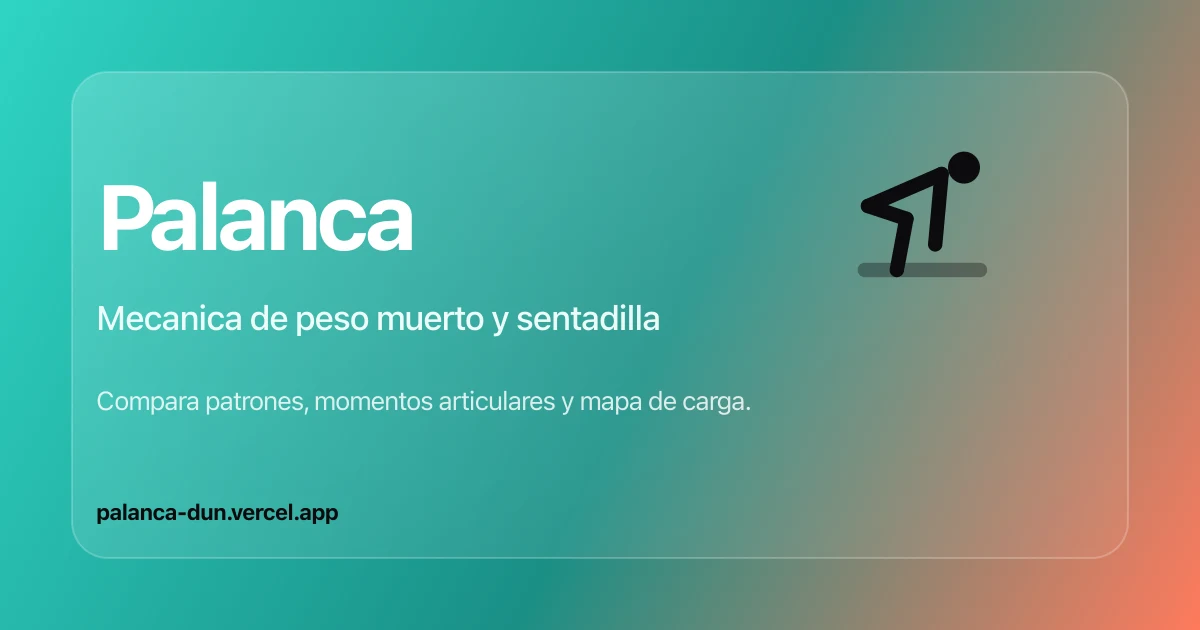
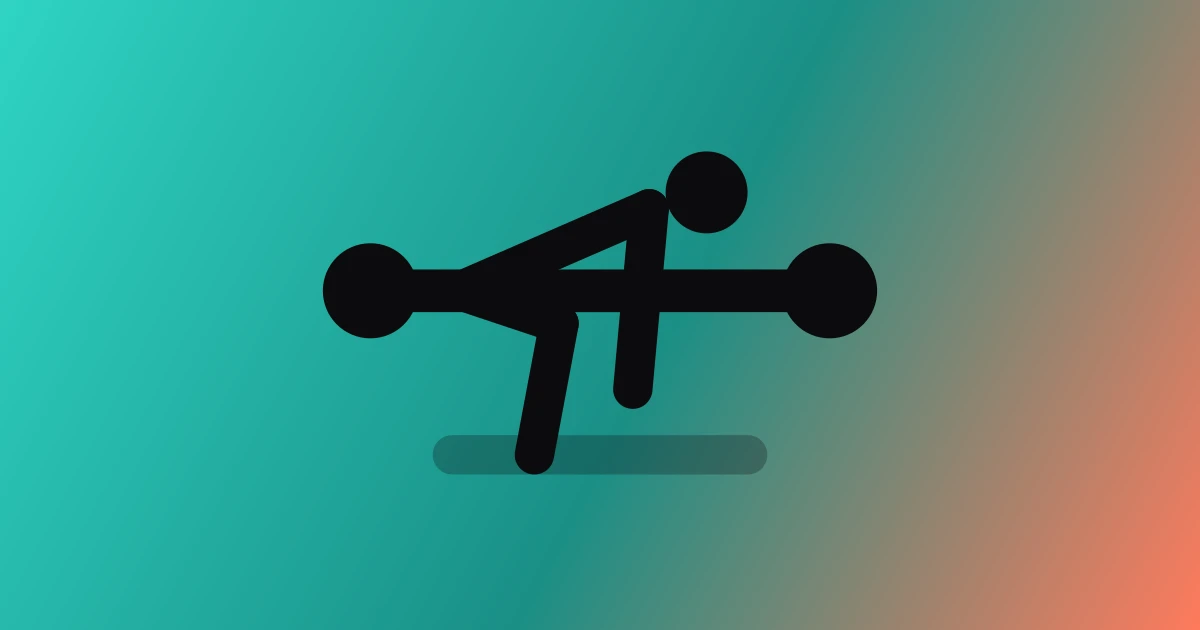
fix: og image solo stickman con barra de gym
Reemplaza el card con texto por el simbolo del simulador: figura y barra centrados sobre el gradiente de marca.

diff --git a/index.html b/index.html
@@ -28,7 +28,7 @@
     <meta property="og:image:secure_url" content="https://palanca-dun.vercel.app/og.webp" />
     <meta property="og:image:width" content="1200" />
     <meta property="og:image:height" content="630" />
-    <meta property="og:image:alt" content="Palanca — simulador de mecánica de peso muerto y sentadilla" />
+    <meta property="og:image:alt" content="Stick figure levantando una barra en Palanca" />
     <meta property="og:locale" content="es_AR" />
     <meta name="twitter:card" content="summary_large_image" />
     <meta name="twitter:title" content="Palanca · Mecánica de peso muerto y sentadilla" />
@@ -37,7 +37,7 @@
       content="Simulador interactivo de peso muerto y sentadilla: compará patrones de coordinación, momentos articulares y mapa de carga."
     />
     <meta name="twitter:image" content="https://palanca-dun.vercel.app/og.webp" />
-    <meta name="twitter:image:alt" content="Palanca — simulador de mecánica de peso muerto y sentadilla" />
+    <meta name="twitter:image:alt" content="Stick figure levantando una barra en Palanca" />
     <title>Palanca · Mecánica de peso muerto y sentadilla</title>
   </head>
   <body>
